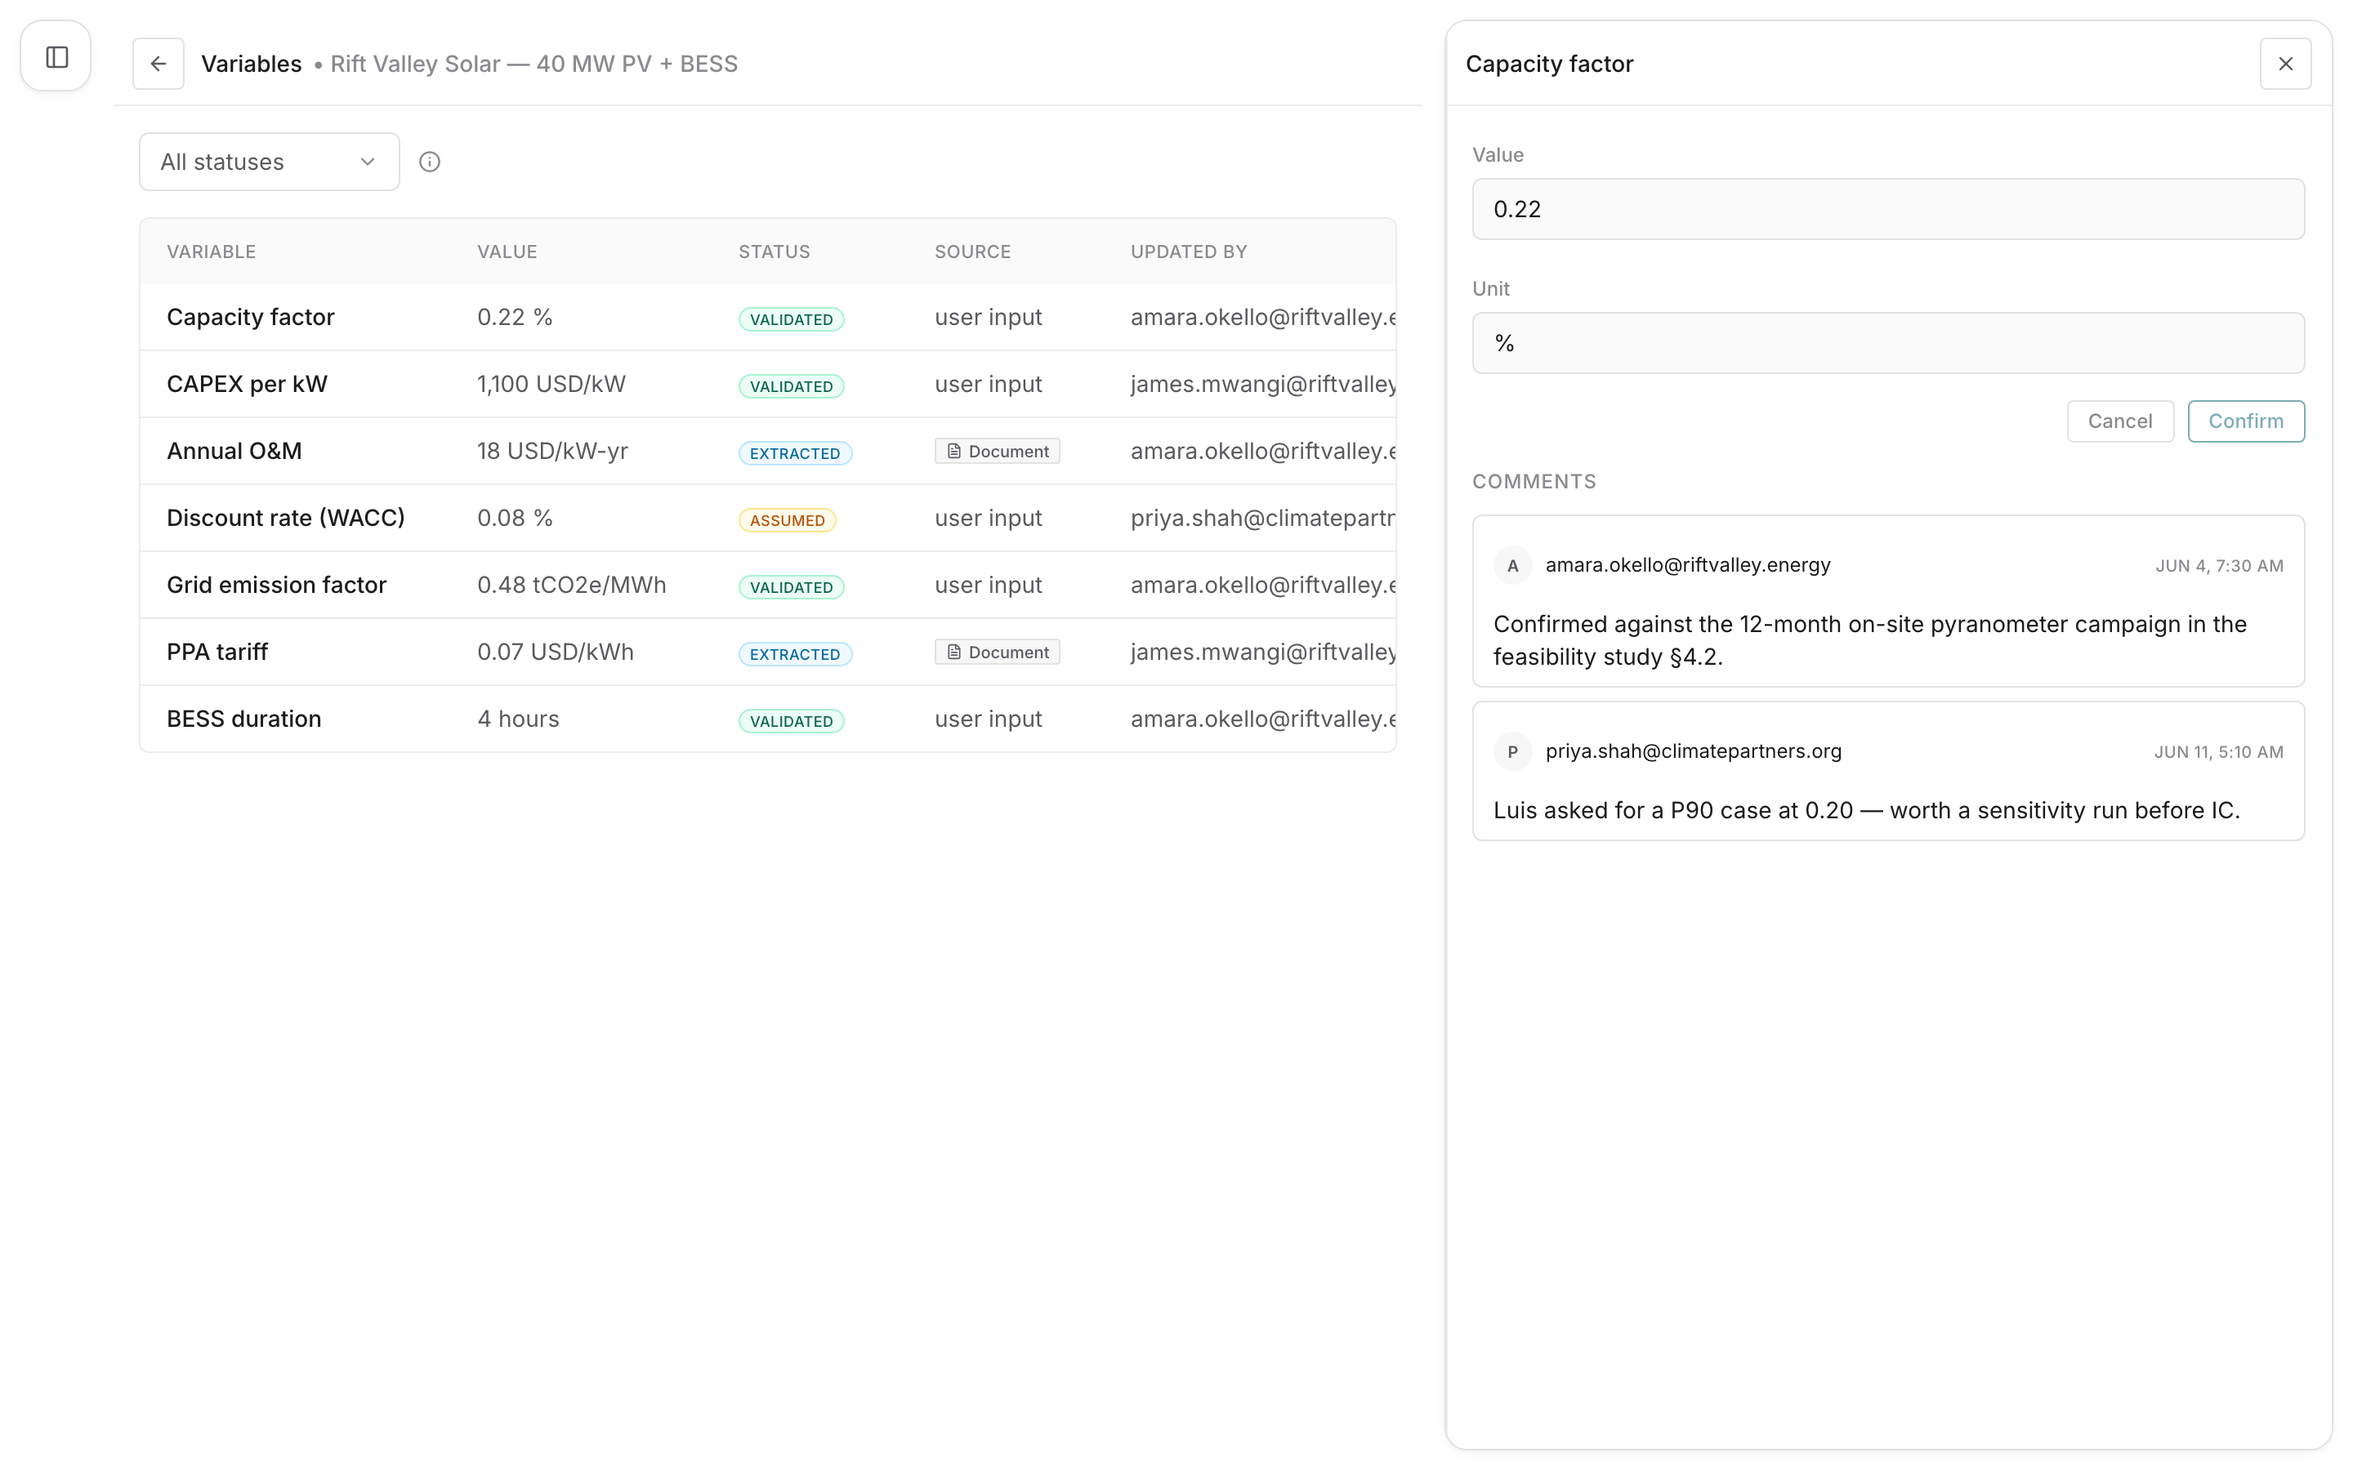
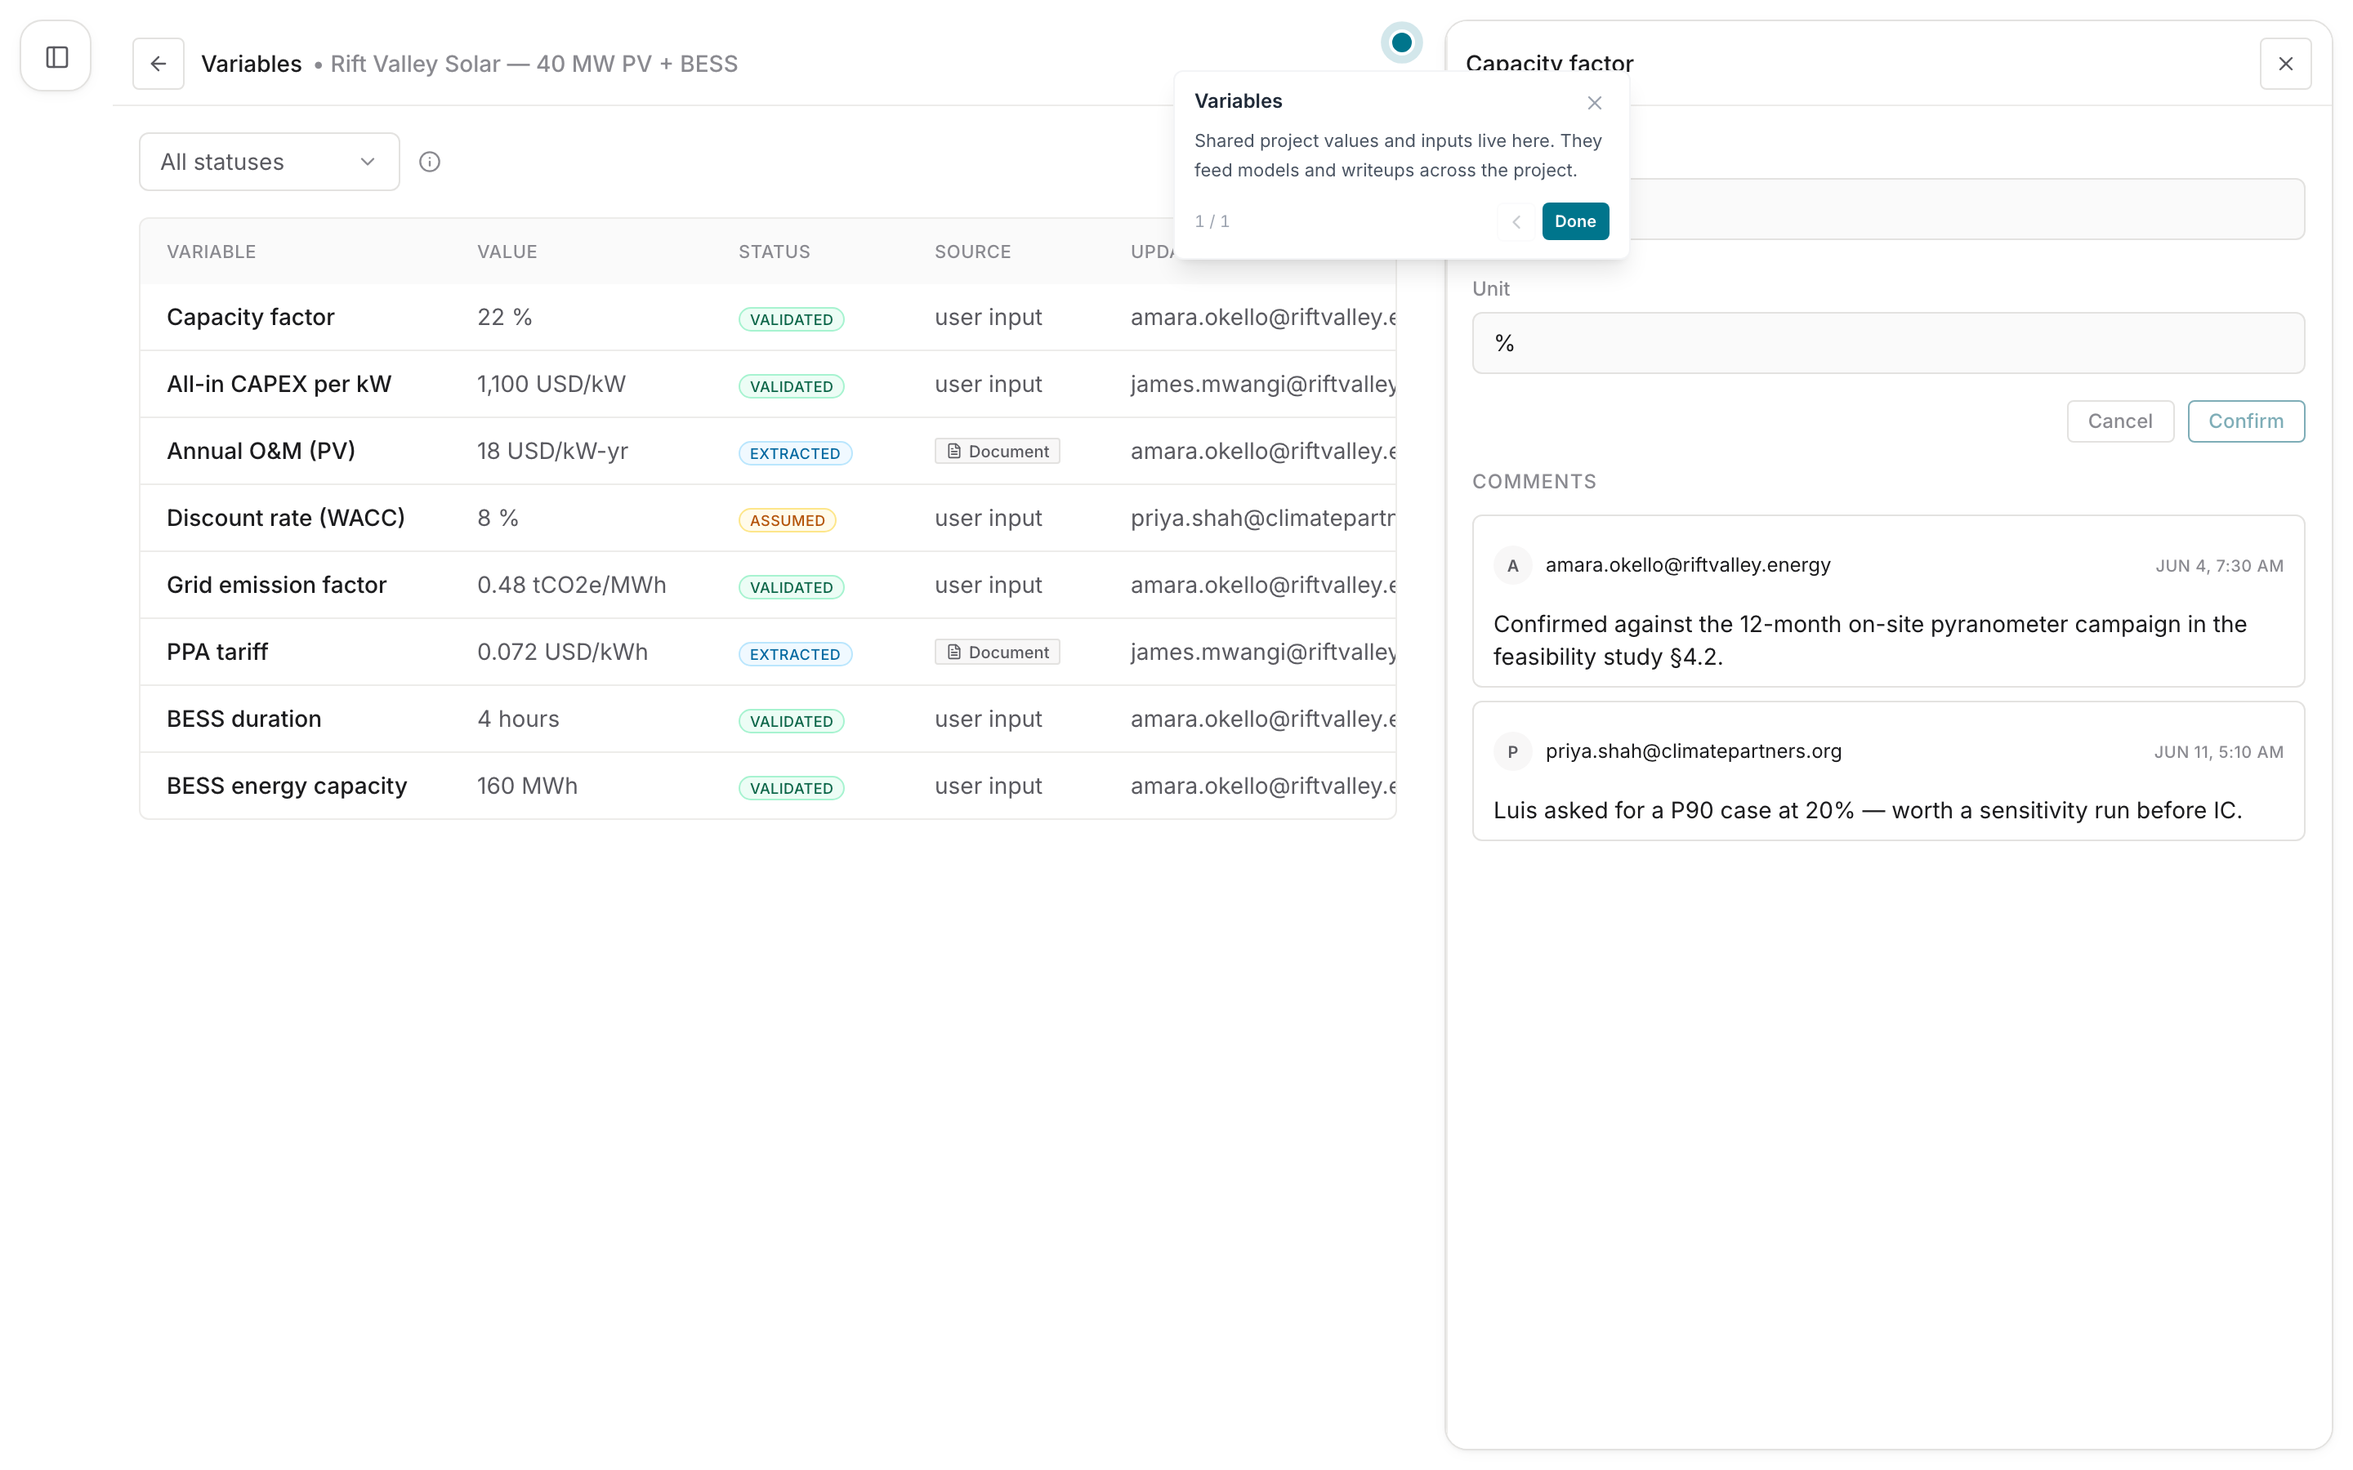
Fix percent variable display and tighten demo diligence inputs.
Show 0–1 fractions as percentage points, clarify CAPEX/O&M/BESS/EF demo labels, and refresh the variables README screenshot.

diff --git a/frontend/src/lib/demo/demoFixtures.ts b/frontend/src/lib/demo/demoFixtures.ts
@@ -57,6 +57,7 @@ export const DEMO_VAR_DISCOUNT = 'demo-var-discount';
 export const DEMO_VAR_GRID_EF = 'demo-var-grid-ef';
 export const DEMO_VAR_PPA = 'demo-var-ppa-tariff';
 export const DEMO_VAR_BESS = 'demo-var-bess-hours';
+export const DEMO_VAR_BESS_ENERGY = 'demo-var-bess-mwh';
 
 export const demoWorkspace: Workspace = {
   id: DEMO_WORKSPACE_ID,
@@ -433,7 +434,8 @@ export const demoVariables: Variable[] = [
     DEMO_VAR_CAPACITY_FACTOR,
     'capacity_factor',
     'Capacity factor',
-    0.22,
+    // Percentage points (22%), matching extraction convention — not a 0–1 fraction.
+    22,
     '%',
     'percent',
     'validated',
@@ -444,32 +446,33 @@ export const demoVariables: Variable[] = [
   makeVariable(
     DEMO_VAR_CAPEX,
     'capex_per_kw',
-    'CAPEX per kW',
+    'All-in CAPEX per kW',
     1100,
     'USD/kW',
     'currency',
     'validated',
     ['lcoe_model'],
-    'All-in EPC + BESS package; excludes IDC.',
+    'Blended PV + 4h BESS package ($980/kW PV + ~$120/kW BESS-equivalent); excludes IDC.',
     'james.mwangi@riftvalley.energy',
   ),
   makeVariable(
     DEMO_VAR_OM,
     'annual_om',
-    'Annual O&M',
+    'Annual O&M (PV)',
     18,
     'USD/kW-yr',
     'currency',
     'extracted',
     ['lcoe_model'],
-    'Extracted from EPC O&M schedule appendix.',
+    'PV O&M from EPC schedule; BESS O&M / augmentation modeled separately.',
     DEMO_OWNER_EMAIL,
   ),
   makeVariable(
     DEMO_VAR_DISCOUNT,
     'discount_rate',
     'Discount rate (WACC)',
-    0.08,
+    // Percentage points (8%), matching extraction convention — not a 0–1 fraction.
+    8,
     '%',
     'percent',
     'assumed',
@@ -486,7 +489,7 @@ export const demoVariables: Variable[] = [
     'number',
     'validated',
     ['carbon_model'],
-    'Kenya grid EF (combined margin) for renewable displacement.',
+    'Kenya combined-margin grid EF (operating + build), ~2024 vintage for renewable displacement.',
     DEMO_OWNER_EMAIL,
   ),
   makeVariable(
@@ -498,7 +501,7 @@ export const demoVariables: Variable[] = [
     'currency',
     'extracted',
     ['lcoe_model'],
-    'Indicative level from KPLC term sheet draft.',
+    'Indicative level from KPLC term sheet draft (non-binding; escalation not yet in LCOE).',
     'james.mwangi@riftvalley.energy',
   ),
   makeVariable(
@@ -510,7 +513,19 @@ export const demoVariables: Variable[] = [
     'number',
     'validated',
     ['lcoe_model', 'solar_estimate'],
-    '40 MW / 160 MWh configuration.',
+    'Discharge duration at rated power for the 40 MW / 160 MWh block.',
+    DEMO_OWNER_EMAIL,
+  ),
+  makeVariable(
+    DEMO_VAR_BESS_ENERGY,
+    'bess_energy_mwh',
+    'BESS energy capacity',
+    160,
+    'MWh',
+    'number',
+    'validated',
+    ['lcoe_model', 'solar_estimate'],
+    'Nameplate storage energy; pairs with 40 MW / 4h duration.',
     DEMO_OWNER_EMAIL,
   ),
 ];
@@ -547,7 +562,7 @@ export const demoVariableComments: Record<string, VariableComment[]> = {
       id: 'demo-vc-cf-2',
       variable_id: DEMO_VAR_CAPACITY_FACTOR,
       project_id: DEMO_PROJECT_ID,
-      body: 'Luis asked for a P90 case at 0.20 — worth a sensitivity run before IC.',
+      body: 'Luis asked for a P90 case at 20% — worth a sensitivity run before IC.',
       created_by_email: 'priya.shah@climatepartners.org',
       created_at: WEEK_AGO,
     },
@@ -557,8 +572,18 @@ export const demoVariableComments: Record<string, VariableComment[]> = {
       id: 'demo-vc-capex-1',
       variable_id: DEMO_VAR_CAPEX,
       project_id: DEMO_PROJECT_ID,
-      body: 'EPC indicative at $980/kW PV + ~$120/kW-equivalent for BESS package. Holding $1,100/kW blended until binding bids.',
+      body: 'EPC indicative at $980/kW PV + ~$120/kW-equivalent for the 4h BESS. Holding $1,100/kW all-in blended until binding bids — not PV-only.',
       created_by_email: 'james.mwangi@riftvalley.energy',
+      created_at: WEEK_AGO,
+    },
+  ],
+  [DEMO_VAR_OM]: [
+    {
+      id: 'demo-vc-om-1',
+      variable_id: DEMO_VAR_OM,
+      project_id: DEMO_PROJECT_ID,
+      body: 'This line is PV O&M only. Battery augmentation / replacement sits in a separate opex schedule for IC.',
+      created_by_email: DEMO_OWNER_EMAIL,
       created_at: WEEK_AGO,
     },
   ],
@@ -585,9 +610,19 @@ export const demoVariableComments: Record<string, VariableComment[]> = {
       id: 'demo-vc-ppa-1',
       variable_id: DEMO_VAR_PPA,
       project_id: DEMO_PROJECT_ID,
-      body: 'Term sheet is non-binding. Escalation at CPI-US with a 2% floor — not yet modeled in LCOE.',
+      body: 'Term sheet is non-binding at $0.072/kWh. Escalation at CPI-US with a 2% floor — not yet modeled in LCOE.',
       created_by_email: 'james.mwangi@riftvalley.energy',
       created_at: '2026-06-13T10:15:00.000Z',
+    },
+  ],
+  [DEMO_VAR_GRID_EF]: [
+    {
+      id: 'demo-vc-ef-1',
+      variable_id: DEMO_VAR_GRID_EF,
+      project_id: DEMO_PROJECT_ID,
+      body: 'Using Kenya combined-margin EF (~0.48 tCO₂e/MWh, ~2024). Confirm OM vs BM weights before registering a carbon methodology.',
+      created_by_email: DEMO_OWNER_EMAIL,
+      created_at: WEEK_AGO,
     },
   ],
 };

diff --git a/frontend/src/lib/formatVariableValue.ts b/frontend/src/lib/formatVariableValue.ts
@@ -1,0 +1,58 @@
+/**
+ * Format variable values for tables and detail panes.
+ *
+ * Percent storage is inconsistent in the wild: LLM extraction often writes
+ * percentage points (22, 8) while LCOE/carbon engines use 0–1 fractions
+ * (0.22, 0.08). When the unit is `%` (or value_type is percent), treat
+ * |value| ≤ 1 as a fraction for *display* so we never show "0.22 %".
+ */
+
+export function percentDisplayNumber(value: number): number {
+  if (!Number.isFinite(value)) return value;
+  if (Math.abs(value) > 0 && Math.abs(value) <= 1) return value * 100;
+  return value;
+}
+
+function formatNumeric(value: number, valueType?: string | null): string {
+  if (!Number.isFinite(value)) return String(value);
+  if (valueType === 'currency') {
+    // Tariffs like USD/kWh need more than 2 dp; large CAPEX does not.
+    const abs = Math.abs(value);
+    const digits = abs > 0 && abs < 1 ? 4 : 2;
+    return value.toLocaleString(undefined, { maximumFractionDigits: digits });
+  }
+  if (valueType === 'percent') {
+    return percentDisplayNumber(value).toLocaleString(undefined, {
+      maximumFractionDigits: 2,
+    });
+  }
+  if (Number.isInteger(value)) return value.toLocaleString();
+  return value.toLocaleString(undefined, { maximumFractionDigits: 6 });
+}
+
+export function formatVariableValue(
+  value: unknown,
+  unit?: string | null,
+  valueType?: string | null,
+): string {
+  if (value === null || value === undefined || value === '') return '';
+
+  const isPercent = valueType === 'percent' || unit === '%';
+
+  let formatted: string;
+  if (typeof value === 'number') {
+    if (isPercent) {
+      formatted = percentDisplayNumber(value).toLocaleString(undefined, {
+        maximumFractionDigits: 2,
+      });
+    } else {
+      formatted = formatNumeric(value, valueType);
+    }
+  } else if (typeof value === 'object') {
+    formatted = JSON.stringify(value);
+  } else {
+    formatted = String(value);
+  }
+
+  return unit ? `${formatted} ${unit}` : formatted;
+}

diff --git a/frontend/src/components/chat-shell/ProjectVariablesPanel.tsx b/frontend/src/components/chat-shell/ProjectVariablesPanel.tsx
@@ -4,14 +4,14 @@ import { useEffect, useState } from 'react';
 import { ExternalLink, Loader2 } from 'lucide-react';
 import { api, type Variable } from '@/lib/api';
 import { CHAT_FLOATING_PANEL_CHROME } from '@/components/ui/chatSidebarLayout';
+import { formatVariableValue } from '@/lib/formatVariableValue';
 import { PROJECT_VARIABLES } from '@/lib/projectVariablesCopy';
 import { getCached, swrFetch, swrKeys } from '@/lib/swrCache';
 import { VariableStatusCapsule } from '@/components/variables/VariableStatusCapsule';
 
-function formatValue(value: unknown, unit?: string | null): string {
+function formatValue(value: unknown, unit?: string | null, valueType?: Variable['value_type']): string {
   if (value === null || value === undefined || value === '') return '—';
-  const base = typeof value === 'object' ? JSON.stringify(value) : String(value);
-  return unit ? `${base} ${unit}` : base;
+  return formatVariableValue(value, unit, valueType);
 }
 
 interface ProjectVariablesPanelProps {
@@ -112,8 +112,8 @@ export function ProjectVariablesPanel({
                     <span className="text-xs font-medium text-text-primary leading-snug">{row.label}</span>
                     <VariableStatusCapsule status={row.status} className="shrink-0" />
                   </div>
-                  <p className="mt-1 text-[11px] text-text-secondary truncate" title={formatValue(row.value, row.unit)}>
-                    {formatValue(row.value, row.unit)}
+                  <p className="mt-1 text-[11px] text-text-secondary truncate" title={formatValue(row.value, row.unit, row.value_type)}>
+                    {formatValue(row.value, row.unit, row.value_type)}
                   </p>
                 </button>
               </li>

diff --git a/frontend/src/components/variables/VariablesWorkspaceTab.tsx b/frontend/src/components/variables/VariablesWorkspaceTab.tsx
@@ -10,6 +10,7 @@ import { CompanionSidePanel, COMPANION_SIDE_PANEL_WIDTH } from '@/components/ui/
 import { CustomDropdown } from '@/components/ui/CustomDropdown';
 import { Tooltip } from '@/components/ui/Tooltip';
 import { PROJECT_VARIABLES } from '@/lib/projectVariablesCopy';
+import { formatVariableValue } from '@/lib/formatVariableValue';
 import {
   api,
   type Variable,
@@ -50,29 +51,13 @@ const STATUS_OPTIONS: Array<{ value: '' | VariableStatus; label: string }> = [
   { value: 'missing', label: 'Missing' },
 ];
 
-function formatNumeric(value: number, valueType?: Variable['value_type']): string {
-  if (!Number.isFinite(value)) return String(value);
-  if (valueType === 'currency') {
-    return value.toLocaleString(undefined, { maximumFractionDigits: 2 });
-  }
-  if (Number.isInteger(value)) {
-    return value.toLocaleString();
-  }
-  return value.toLocaleString(undefined, { maximumFractionDigits: 6 });
-}
-
 function isMissingValue(value: any): boolean {
   return value === null || value === undefined || value === '';
 }
 
+/** Re-export shared formatter — used by VariableDetailWidget and tests. */
 export function formatValue(value: any, unit?: string | null, valueType?: Variable['value_type']): string {
-  if (isMissingValue(value)) return '';
-  const formatted = typeof value === 'number'
-    ? formatNumeric(value, valueType)
-    : typeof value === 'object'
-      ? JSON.stringify(value)
-      : String(value);
-  return unit ? `${formatted} ${unit}` : formatted;
+  return formatVariableValue(value, unit, valueType);
 }
 
 function MissingValuePill() {

diff --git a/frontend/src/components/variables/VariablesChatPanel.tsx b/frontend/src/components/variables/VariablesChatPanel.tsx
@@ -5,32 +5,13 @@ import { useCallback, useEffect, useMemo, useState } from 'react';
 
 import { ChatPanelWidgetShell } from '@/components/core-chat/ChatPanelWidgetShell';
 import { api, type Variable } from '@/lib/api';
+import { formatVariableValue } from '@/lib/formatVariableValue';
 import { PROJECT_VARIABLES } from '@/lib/projectVariablesCopy';
 import { VariableCommentsThread } from './VariableCommentsThread';
 
 const VARIABLE_UPDATED_EVENT = 'nitrogen:variable-updated';
 const VARIABLE_DELETED_EVENT = 'nitrogen:variable-deleted';
 const variableCache = new Map<string, Variable>();
-
-function formatVariableValue(
-  value: any,
-  unit?: string | null,
-  valueType?: Variable['value_type'],
-): string {
-  if (value === null || value === undefined || value === '') return '';
-  const formatted = typeof value === 'number'
-    ? (
-        valueType === 'currency'
-          ? value.toLocaleString(undefined, { maximumFractionDigits: 2 })
-          : Number.isInteger(value)
-            ? value.toLocaleString()
-            : value.toLocaleString(undefined, { maximumFractionDigits: 6 })
-      )
-    : typeof value === 'object'
-      ? JSON.stringify(value)
-      : String(value);
-  return unit ? `${formatted} ${unit}` : formatted;
-}
 
 interface VariablesChatPanelProps {
   projectId: string;

diff --git a/frontend/src/lib/__tests__/formatVariableValue.test.ts b/frontend/src/lib/__tests__/formatVariableValue.test.ts
@@ -1,0 +1,24 @@
+import { formatVariableValue, percentDisplayNumber } from '@/lib/formatVariableValue';
+
+describe('formatVariableValue', () => {
+  it('renders fraction percents as percentage points', () => {
+    expect(percentDisplayNumber(0.22)).toBe(22);
+    expect(percentDisplayNumber(0.08)).toBe(8);
+    expect(formatVariableValue(0.22, '%', 'percent')).toBe('22 %');
+    expect(formatVariableValue(0.08, '%', 'percent')).toBe('8 %');
+  });
+
+  it('leaves percentage-point storage unchanged', () => {
+    expect(percentDisplayNumber(22)).toBe(22);
+    expect(percentDisplayNumber(8)).toBe(8);
+    expect(formatVariableValue(22, '%', 'percent')).toBe('22 %');
+    expect(formatVariableValue(85, '%', 'percent')).toBe('85 %');
+  });
+
+  it('keeps more precision for small currency amounts', () => {
+    expect(formatVariableValue(0.072, 'USD/kWh', 'currency')).toContain('0.072');
+    expect(formatVariableValue(0.072, 'USD/kWh', 'currency')).toContain('USD/kWh');
+    const capex = formatVariableValue(1100, 'USD/kW', 'currency');
+    expect(capex.replace(/,/g, '')).toBe('1100 USD/kW');
+  });
+});
